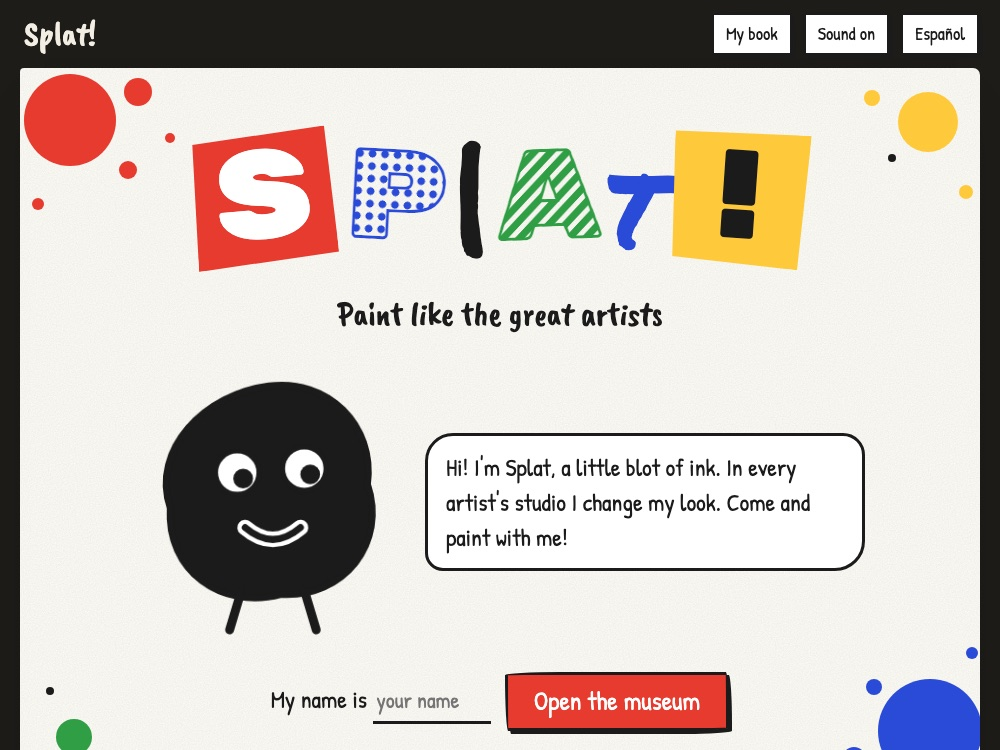
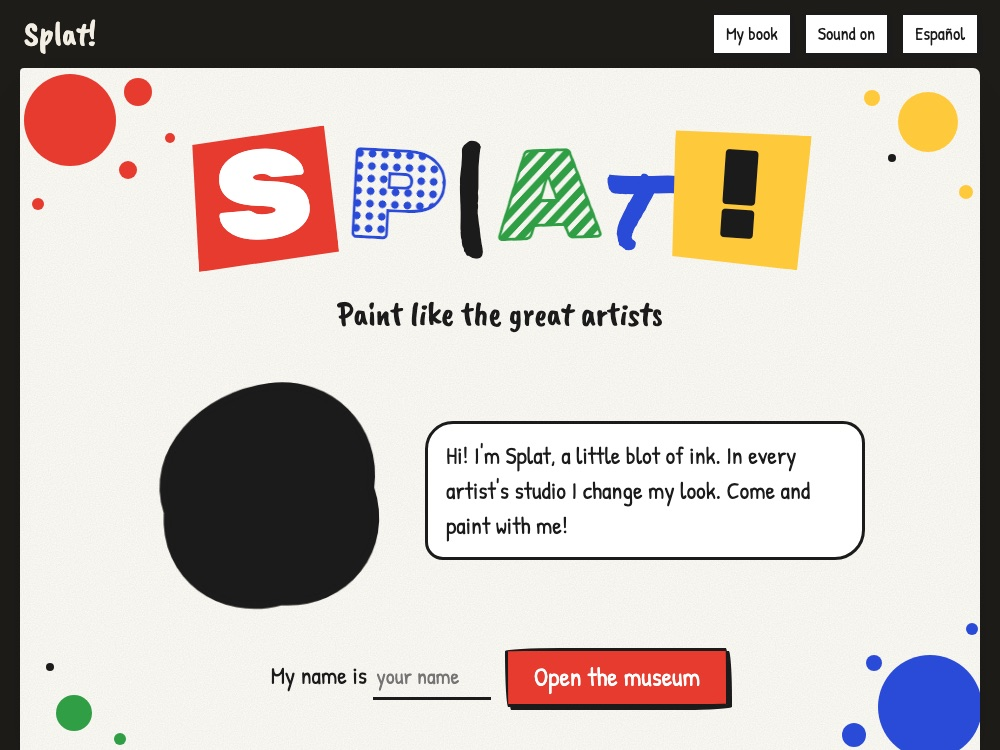
Update Splat! Art Studio to new version (simplified Splat mascot)

diff --git a/public/games/splat-art-studio.html b/public/games/splat-art-studio.html
@@ -238,7 +238,7 @@ const S=[
 const LOCK=[['Claude Monet','1840–1926'],['Katsushika Hokusai','1760–1849'],['Giuseppe Arcimboldo','1526–1593'],['Gustav Klimt','1862–1918']];
 
 const BLOB='M62 8C92 4 116 28 112 58c10 30-12 58-44 56-30 8-58-12-56-44C2 40 30 12 62 8z';
-const blob=fill=>`<svg class="blob" viewBox="-6 -4 132 142" aria-hidden="true"><g class="bb"><path d="${BLOB}" fill="${fill}" stroke="#1b1b1b" stroke-width="3.5"/><circle cx="46" cy="52" r="11" fill="#fff" stroke="#1b1b1b" stroke-width="2.5"/><circle cx="80" cy="50" r="11" fill="#fff" stroke="#1b1b1b" stroke-width="2.5"/><circle cx="49" cy="55" r="5" fill="#1b1b1b"/><circle cx="83" cy="53" r="5" fill="#1b1b1b"/><path d="M50 80q14 12 28 0" fill="none" stroke="#fff" stroke-width="8" stroke-linecap="round"/><path d="M50 80q14 12 28 0" fill="none" stroke="#1b1b1b" stroke-width="3.5" stroke-linecap="round"/></g><path d="M48 112l-6 20M80 112l6 20" stroke="#1b1b1b" stroke-width="4.5" stroke-linecap="round"/></svg>`;
+const blob=fill=>`<svg class="blob" viewBox="-4 -4 128 126" aria-hidden="true"><g class="bb"><path d="${BLOB}" fill="${fill}" stroke="#1b1b1b" stroke-width="3.5"/></g></svg>`;
 
 /* ---------- sound + voice ---------- */
 let AC=null,lastS=0;
